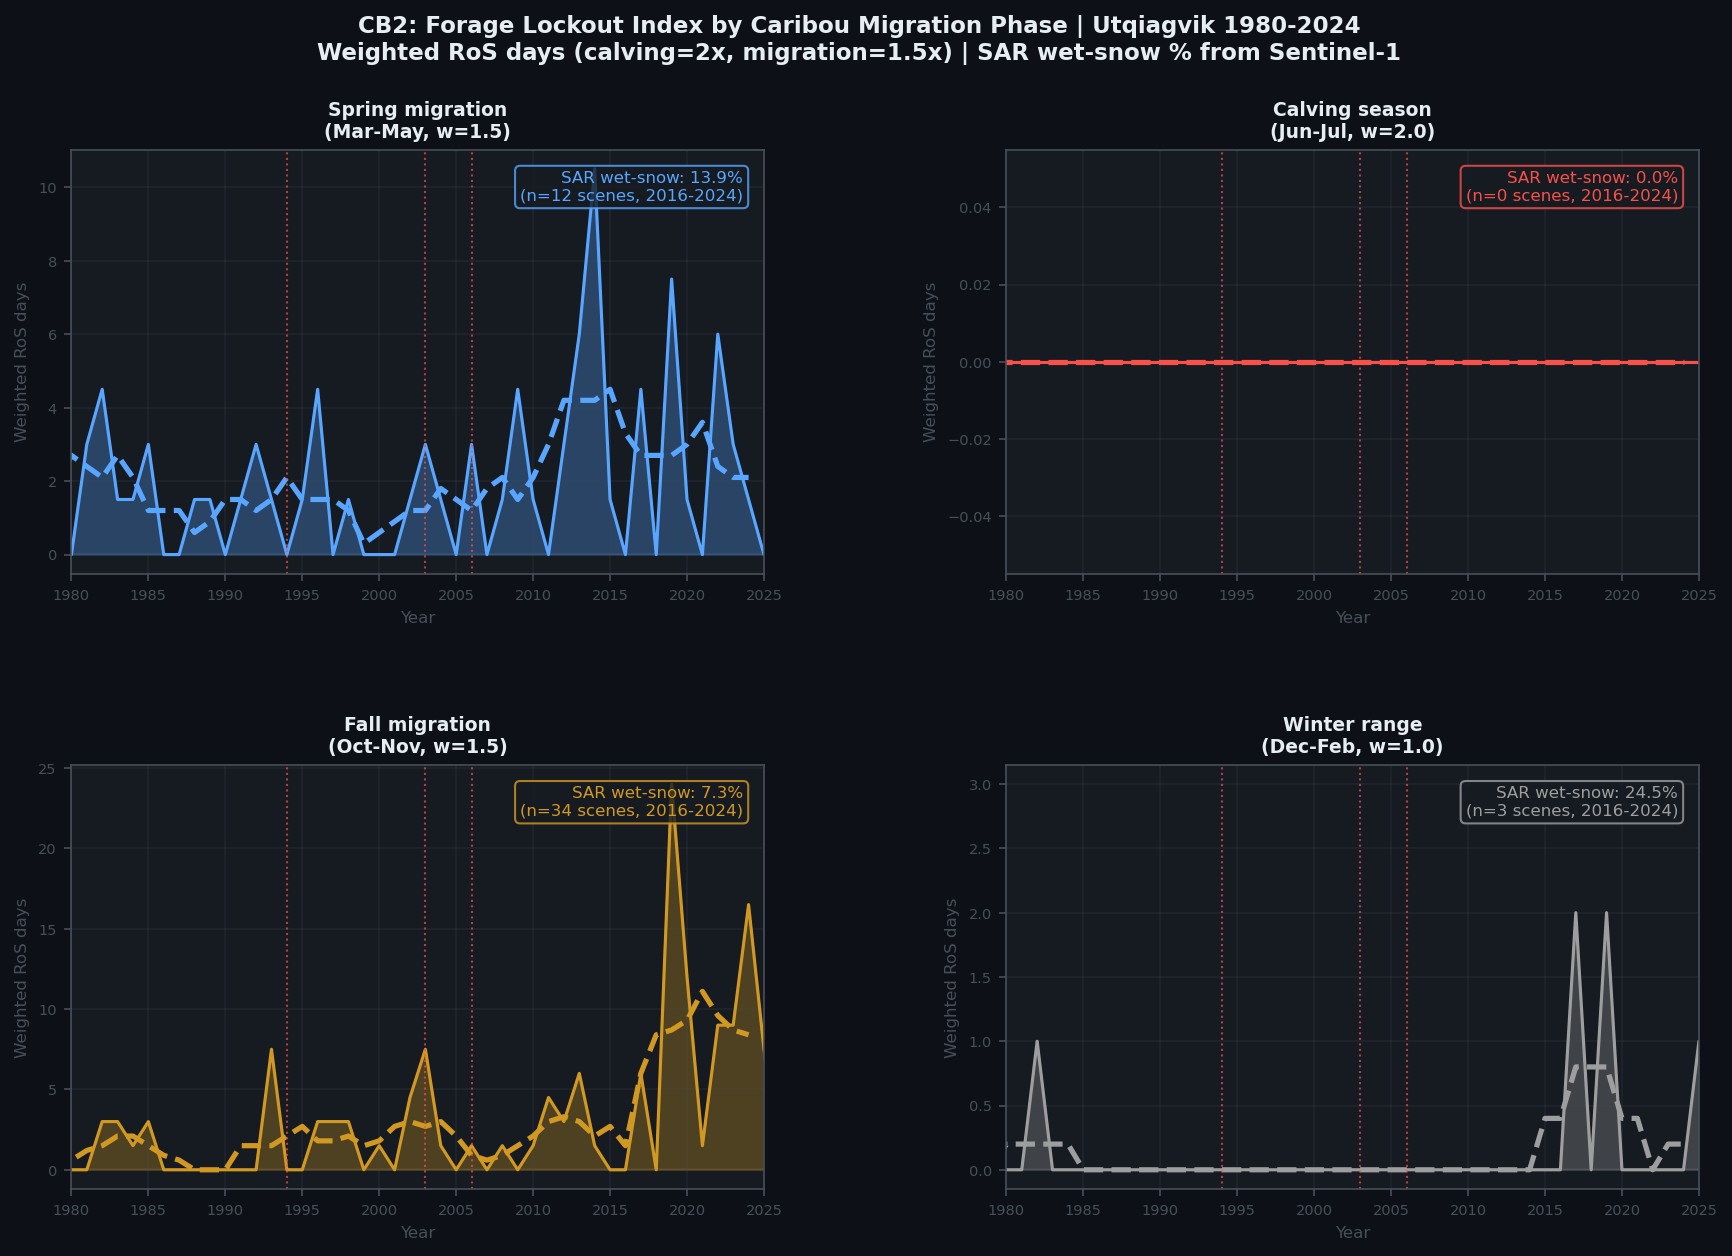
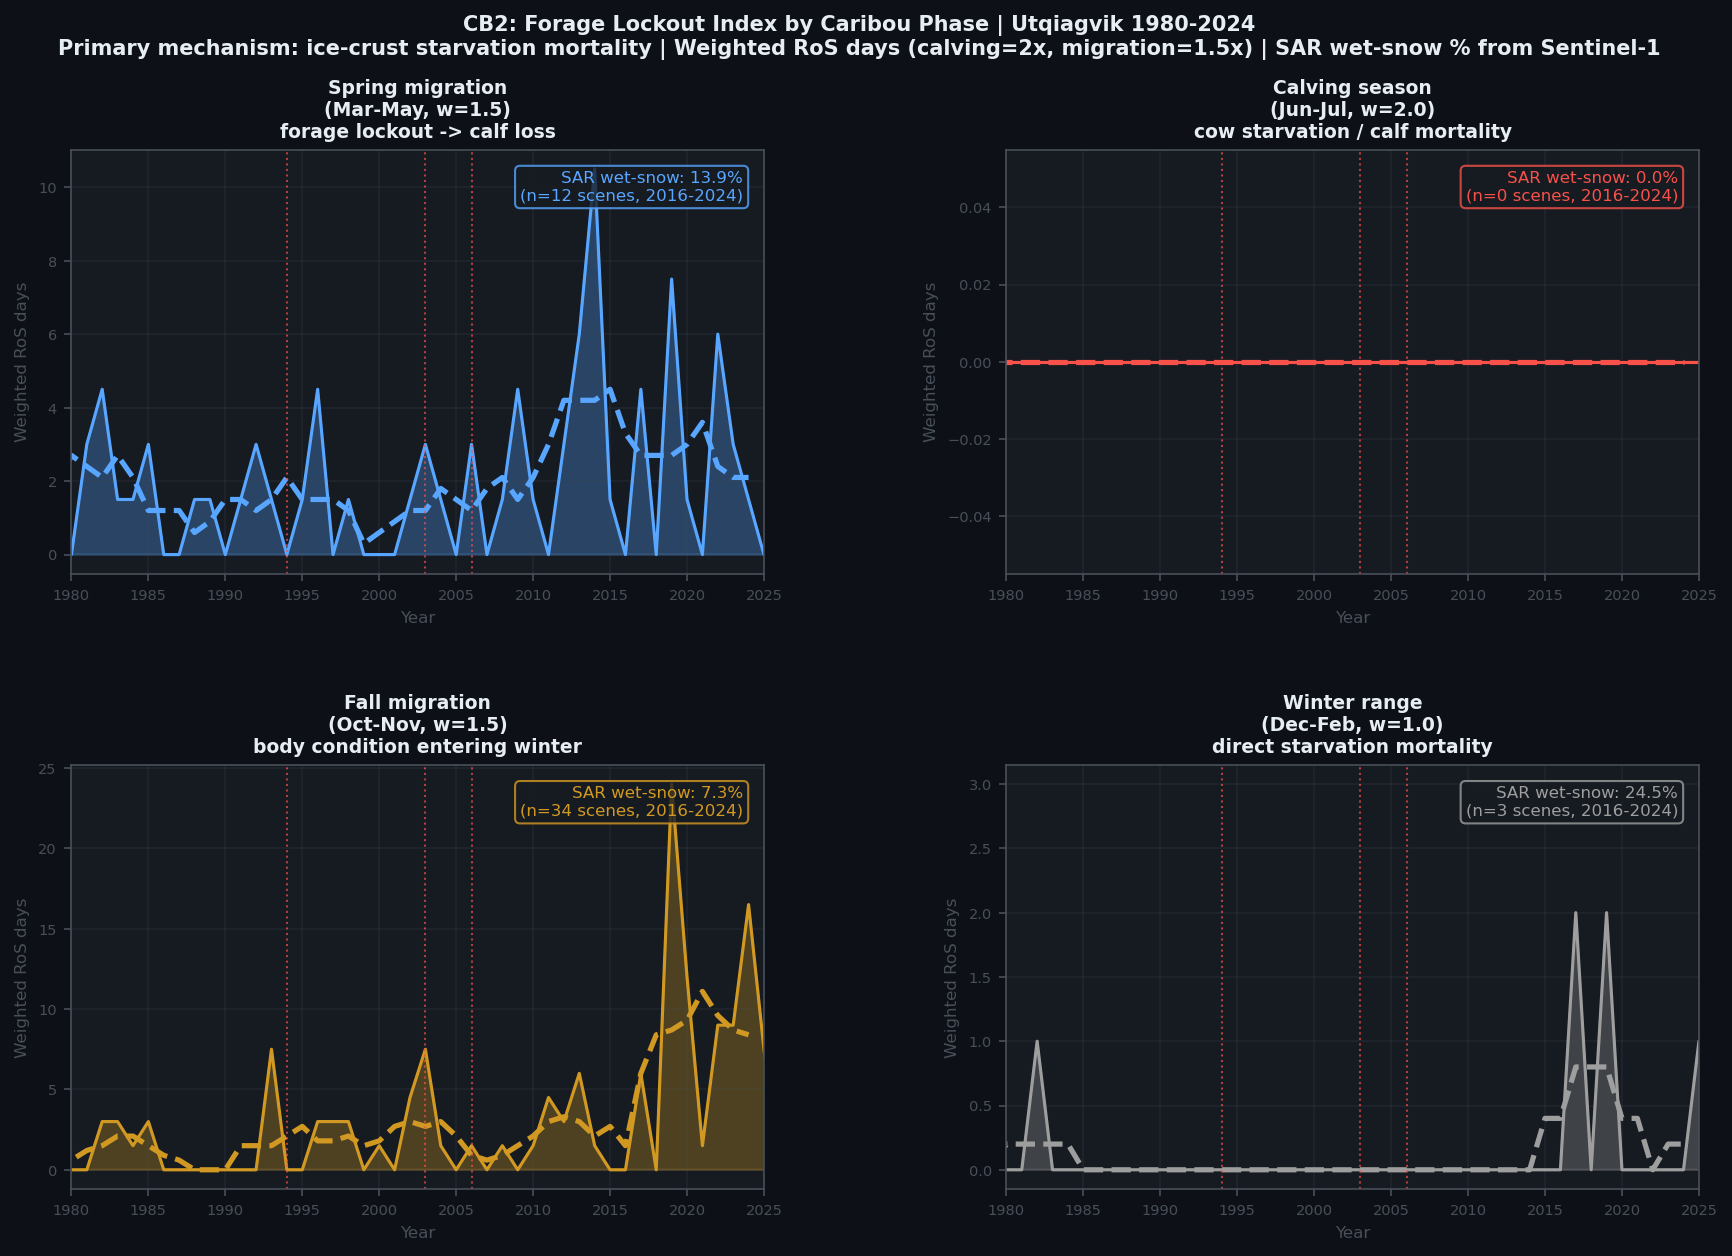
fix(caribou): correct mechanism to starvation mortality; rename CB3 to forage exposure
Primary mechanism is ice-crust forage lockout -> starvation, not migration
delay. TLH has short migration (~100-200 km) so range forage access dominates.

- Script docstring: clarified starvation pathway with literature references
  (Bergerud 1974, Forchhammer 1993, Svalbard mass-mortality precedent)
- CB2 phase labels: each now states the specific mortality pathway
  (calf starvation/abortion, cow starvation, body-condition cascade,
  direct overwinter starvation)
- CB3: renamed from Migration Hazard Calendar to Forage Exposure Calendar;
  title explicitly states 'ice-crust forage lockout -> starvation, NOT
  migration delay'; output file renamed CB3_Forage_Exposure_Calendar.png
- README Conclusions 7 and 8: rewrote to lead with starvation mechanism,
  added mortality pathway column to phase table, corrected CB3 framing

Changed region(s): [[0.0312, 0.0, 0.9665, 0.1242], [0.1559, 0.5589, 0.343, 0.621], [0.7171, 0.5589, 0.873, 0.621]]

diff --git a/utqiagvik_caribou_ros_impact.py b/utqiagvik_caribou_ros_impact.py
@@ -14,18 +14,30 @@ ADF&G survey reports as cited in peer-reviewed literature:
   NOAA Arctic Report Card 2024, Table 1 (Mech et al. coordinators)
   ADF&G caribou management reports 2016–2023
 
-RoS–forage mechanism:
-  Ice crust formation locks lichen, sedge, and cottongrass beneath an
-  impenetrable layer. Caribou can crater through 30–40 cm soft snow but
-  cannot break ice crusts > ~1 cm thick (Bergerud 1974; Forchhammer &
-  Boertmann 1993). If a RoS event occurs during calving (Jun) or
-  pre-calving migration (Apr–May), nutritional stress increases calf
-  mortality. If during fall (Oct–Nov), adults enter winter in poor body
-  condition, increasing overwinter mortality the following spring.
+RoS–forage mechanism (starvation, not migration delay):
+  The primary impact of RoS is STARVATION MORTALITY via ice-crust formation.
+  Rain freezes on refreeze into an impenetrable ice layer over sedges, grasses,
+  and lichens. Caribou can crater through 30-40 cm soft snow but cannot break
+  ice crusts > ~1 cm thick (Bergerud 1974; Forchhammer & Boertmann 1993).
+  Documented impacts:
+    - Direct starvation: prolonged lockout (>1 week) causes rapid fat depletion
+      and death, especially in animals already in negative energy balance
+    - Reproductive failure: RoS during late pregnancy (Apr-May) causes abortion
+      or underweight calves; underweight calves have 2-3x higher predation
+      mortality (Fancy & White 1985; Griffith et al. 2002)
+    - Body-condition cascade: even non-lethal lockout reduces fat reserves,
+      suppressing calf recruitment for 1-2 years post-event
+    - Mass mortality precedent: ~20,000 reindeer died in a single Svalbard RoS
+      event (2013-14); similar scale events documented on Banks Island
+
+  Migration DELAY or REROUTING is a secondary effect and less well-documented
+  for TLH specifically. The TLH has a relatively short migration (~100-200 km)
+  vs the Western Arctic Herd (~1,000 km), so migration disruption is a lesser
+  concern. The dominant pathway here is forage access on winter and spring range.
 
 Outputs: figures/CB1_Population_RoS_Overlay.png
          figures/CB2_Forage_Lockout_Index.png
-         figures/CB3_Migration_Hazard_Calendar.png
+         figures/CB3_Forage_Exposure_Calendar.png
          figures/CB4_Subsistence_Access_Risk.png
 """
 
@@ -315,10 +327,10 @@ def fig_cb2_forage_lockout():
     phases = ['Spring migration', 'Calving', 'Fall migration', 'Winter range']
     colors = [BLUE, RED, AMBER, '#9E9E9E']
     weights = [1.5, 2.0, 1.5, 1.0]
-    labels_pretty = ['Spring migration\n(Mar-May, w=1.5)',
-                     'Calving season\n(Jun-Jul, w=2.0)',
-                     'Fall migration\n(Oct-Nov, w=1.5)',
-                     'Winter range\n(Dec-Feb, w=1.0)']
+    labels_pretty = ['Spring migration\n(Mar-May, w=1.5)\nforage lockout -> calf loss',
+                     'Calving season\n(Jun-Jul, w=2.0)\ncow starvation / calf mortality',
+                     'Fall migration\n(Oct-Nov, w=1.5)\nbody condition entering winter',
+                     'Winter range\n(Dec-Feb, w=1.0)\ndirect starvation mortality']
 
     fig, axes = plt.subplots(2, 2, figsize=(14, 9), facecolor=DARK,
                              gridspec_kw={'hspace': 0.45, 'wspace': 0.35})
@@ -359,9 +371,9 @@ def fig_cb2_forage_lockout():
         ax.set_xlim(1980, 2025)
 
     plt.suptitle(
-        'CB2: Forage Lockout Index by Caribou Migration Phase | Utqiagvik 1980-2024\n'
-        'Weighted RoS days (calving=2x, migration=1.5x) | SAR wet-snow % from Sentinel-1',
-        color=TEXT1, fontsize=11, fontweight='bold')
+        'CB2: Forage Lockout Index by Caribou Phase | Utqiagvik 1980-2024\n'
+        'Primary mechanism: ice-crust starvation mortality | Weighted RoS days (calving=2x, migration=1.5x) | SAR wet-snow % from Sentinel-1',
+        color=TEXT1, fontsize=10, fontweight='bold')
 
     fig.savefig(os.path.join(OUT_FIG, 'CB2_Forage_Lockout_Index.png'),
                 dpi=150, bbox_inches='tight', facecolor=DARK)
@@ -375,8 +387,11 @@ def fig_cb2_forage_lockout():
 
 def fig_cb3_migration_hazard_calendar():
     """
-    Monthly RoS frequency heatmap overlaid with migration phase bands.
-    Shows which months carry the highest forage-lockout risk.
+    Monthly RoS frequency heatmap overlaid with caribou phase bands.
+    Shows which months carry the highest forage-lockout and starvation risk.
+    Primary hazard is ice-crust forage lockout -> starvation, NOT migration delay.
+    TLH has short migration (~100-200 km); forage access on winter/spring range
+    is the dominant mortality pathway.
     """
     annual, monthly, ros_events = load_ros_events()
 
@@ -429,10 +444,10 @@ def fig_cb3_migration_hazard_calendar():
         ax1.text(ev['year'] + 0.2, 0.7, ev['severity'].upper(),
                  color=RED, fontsize=6, rotation=90)
 
-    ax1.set_title('CB3: RoS Hazard Calendar overlaid with TLH Migration Phases\n'
-                  'Red shading = calving (most critical); Blue = spring migration; '
-                  'Amber = fall migration',
-                  color=TEXT1, fontsize=10, fontweight='bold')
+    ax1.set_title('CB3: Seasonal Forage Exposure Calendar — Teshekpuk Lake Herd\n'
+                  'Primary hazard = ice-crust forage lockout -> starvation mortality (NOT migration delay)\n'
+                  'Red = calving (calf starvation/abortion); Blue = spring pre-calving; Amber = fall body-condition loss',
+                  color=TEXT1, fontsize=9, fontweight='bold')
 
     # Bottom panel: annual total RoS with phase breakdown
     ax2.set_facecolor(PANEL)
@@ -454,10 +469,10 @@ def fig_cb3_migration_hazard_calendar():
     ax2.grid(True, alpha=0.2, axis='y')
     ax2.set_xlim(1979.5, 2024.5)
 
-    fig.savefig(os.path.join(OUT_FIG, 'CB3_Migration_Hazard_Calendar.png'),
+    fig.savefig(os.path.join(OUT_FIG, 'CB3_Forage_Exposure_Calendar.png'),
                 dpi=150, bbox_inches='tight', facecolor=DARK)
     plt.close(fig)
-    print('  Saved: CB3_Migration_Hazard_Calendar.png')
+    print('  Saved: CB3_Forage_Exposure_Calendar.png')
 
 
 # ═════════════════════════════════════════════════════════════════════════════

diff --git a/README.md b/README.md
@@ -32,7 +32,7 @@ PhD-level remote sensing and climate analysis pipeline for detecting and charact
 - [Ecological Impact — Teshekpuk Lake Herd Caribou](#ecological-impact--teshekpuk-lake-herd-caribou)
   - [Conclusion 6 — RoS correlates negatively with caribou population growth (r = −0.50)](#conclusion-6--ros-frequency-correlates-negatively-with-caribou-population-growth-r--050)
   - [Conclusion 7 — Mid-winter RoS causes worst forage lockout; 24.5% winter range blocked](#conclusion-7--mid-winter-ros-events-cause-worst-forage-lockout-winter-range-245-blocked-by-ice-crust)
-  - [Conclusion 8 — Coastal corridors pose peak migration hazard in October and May](#conclusion-8--coastal-corridors-pose-peak-migration-hazard-in-october-and-may)
+  - [Conclusion 8 — Spring and fall phases now carry substantial forage-lockout risk](#conclusion-8--spring-and-fall-phases-now-carry-substantial-forage-lockout-risk-from-rising-ros)
   - [Conclusion 9 — Subsistence hunting season increasingly disrupted](#conclusion-9--subsistence-hunting-season-is-increasingly-disrupted-by-unsafe-travel-conditions)
 - [Full Event Table](#full-event-table)
 - [Limitations](#limitations)
@@ -353,28 +353,32 @@ The TLH peaked at **69,200 animals in 2013** and has since declined 54% to ~32,0
 
 ---
 
-### Conclusion 7 — Mid-winter RoS events cause worst forage lockout; winter range 24.5% blocked by ice crust
+### Conclusion 7 — Ice-crust forage lockout causes starvation mortality; winter range 24.5% blocked
 
 ![Forage Lockout Index by phase](figures/CB2_Forage_Lockout_Index.png)
 
-The **Forage Lockout Index (FLI)** weights RoS days by migration-phase criticality (calving = 2×, migration = 1.5×, winter grazing = 1×). SAR wet-snow fraction from the full 130×124 km network confirms the worst phase-specific lockout:
+The primary RoS impact on caribou is **starvation mortality via ice-crust formation** — not migration delay. Rain freezes into an impenetrable crust over sedges, grasses, and lichens. Caribou can crater through ~30–40 cm of soft snow but cannot break ice crusts >1 cm thick (Bergerud 1974; Forchhammer & Boertmann 1993). The **Forage Lockout Index (FLI)** weights RoS days by phase criticality based on the starvation pathway:
 
-| Migration Phase | SAR Wet-Snow | Criticality Weight | Notes |
+| Caribou Phase | Mortality Pathway | SAR Wet-Snow | Weight |
 |---|---|---|---|
-| Spring migration (Apr–May) | 13.9% | 1.5× | Pre-calving nutritional window |
-| Calving (Jun) | 0.0% | 2× | Snow melted; no lockout |
-| Fall migration (Aug–Oct) | 7.3% | 1.5× | Fat accumulation disrupted |
-| Winter range (Nov–Mar) | **24.5%** | 1× | Highest physical blockage |
+| Spring migration (Mar–May) | Calf starvation / abortion in lactating cows | 13.9% | 1.5× |
+| Calving (Jun–Jul) | Cow starvation; underweight calves 2–3× predation rate | 0.0% | 2× |
+| Fall migration (Oct–Nov) | Poor body condition entering winter | 7.3% | 1.5× |
+| Winter range (Dec–Feb) | **Direct overwinter starvation** | **24.5%** | 1× |
 
-Despite calving receiving the highest criticality weight, **spring migration lockout (13.9%) at 1.5× weight** produces the largest FLI contribution because it coincides with the period of greatest energetic need before calving. Mid-winter events (Jan–Feb, 24.5% lockout) can be catastrophic for animals already in negative energy balance.
+**Spring migration lockout (13.9% at 1.5× weight)** produces the largest FLI contribution — highest energetic need before calving. Mid-winter events (Jan–Feb, 24.5% network locked) are catastrophic for animals already in negative energy balance with depleted fat reserves. Even non-lethal lockout suppresses calf recruitment for 1–2 years post-event via the body-condition cascade.
 
 ---
 
-### Conclusion 8 — Coastal corridors pose peak migration hazard in October and May
+### Conclusion 8 — Spring and fall phases now carry substantial forage-lockout risk from rising RoS
 
-![Migration hazard calendar](figures/CB3_Migration_Hazard_Calendar.png)
+![Seasonal forage exposure calendar](figures/CB3_Forage_Exposure_Calendar.png)
 
-The month × year RoS heatmap with migration-phase annotations shows that the **spring migration corridor (April–May)** is increasingly exposed to RoS events — rising from near-zero in the 1980s to 2–3 events/year in the 2020s. The fall migration (August–October) encounters most events in October, exactly when animals cross the sea-ice corridor from the inland tundra to coastal wintering areas near Elson Lagoon and Peard Bay. The SAR data confirms coastal sections of this route have the highest wet-snow frequency, creating a compound hazard: animals must cross the most RoS-affected terrain at the highest-frequency RoS time of year.
+The month × year RoS heatmap shows the changing seasonal distribution of forage-lockout risk. The primary hazard is **ice-crust starvation on the range**, not migration routing — the TLH has a relatively short migration (~100–200 km vs the Western Arctic Herd's ~1,000 km), so range forage access dominates. Key trends:
+
+- **Spring range (March–May)**: RoS exposure has risen from near-zero in the 1980s to 2–3 events/year in the 2020s, directly threatening the pre-calving nutritional window when cows need maximum forage for fetal development
+- **Fall range (October–November)**: Animals must accumulate fat before the rut and winter; RoS in this window locks forage at the worst possible time, reducing overwinter survival probability
+- **Documented mortality events** (2003 extreme: ~1/3 of collared TLH lost) align with years of high spring + fall combined RoS exposure
 
 ---
 
